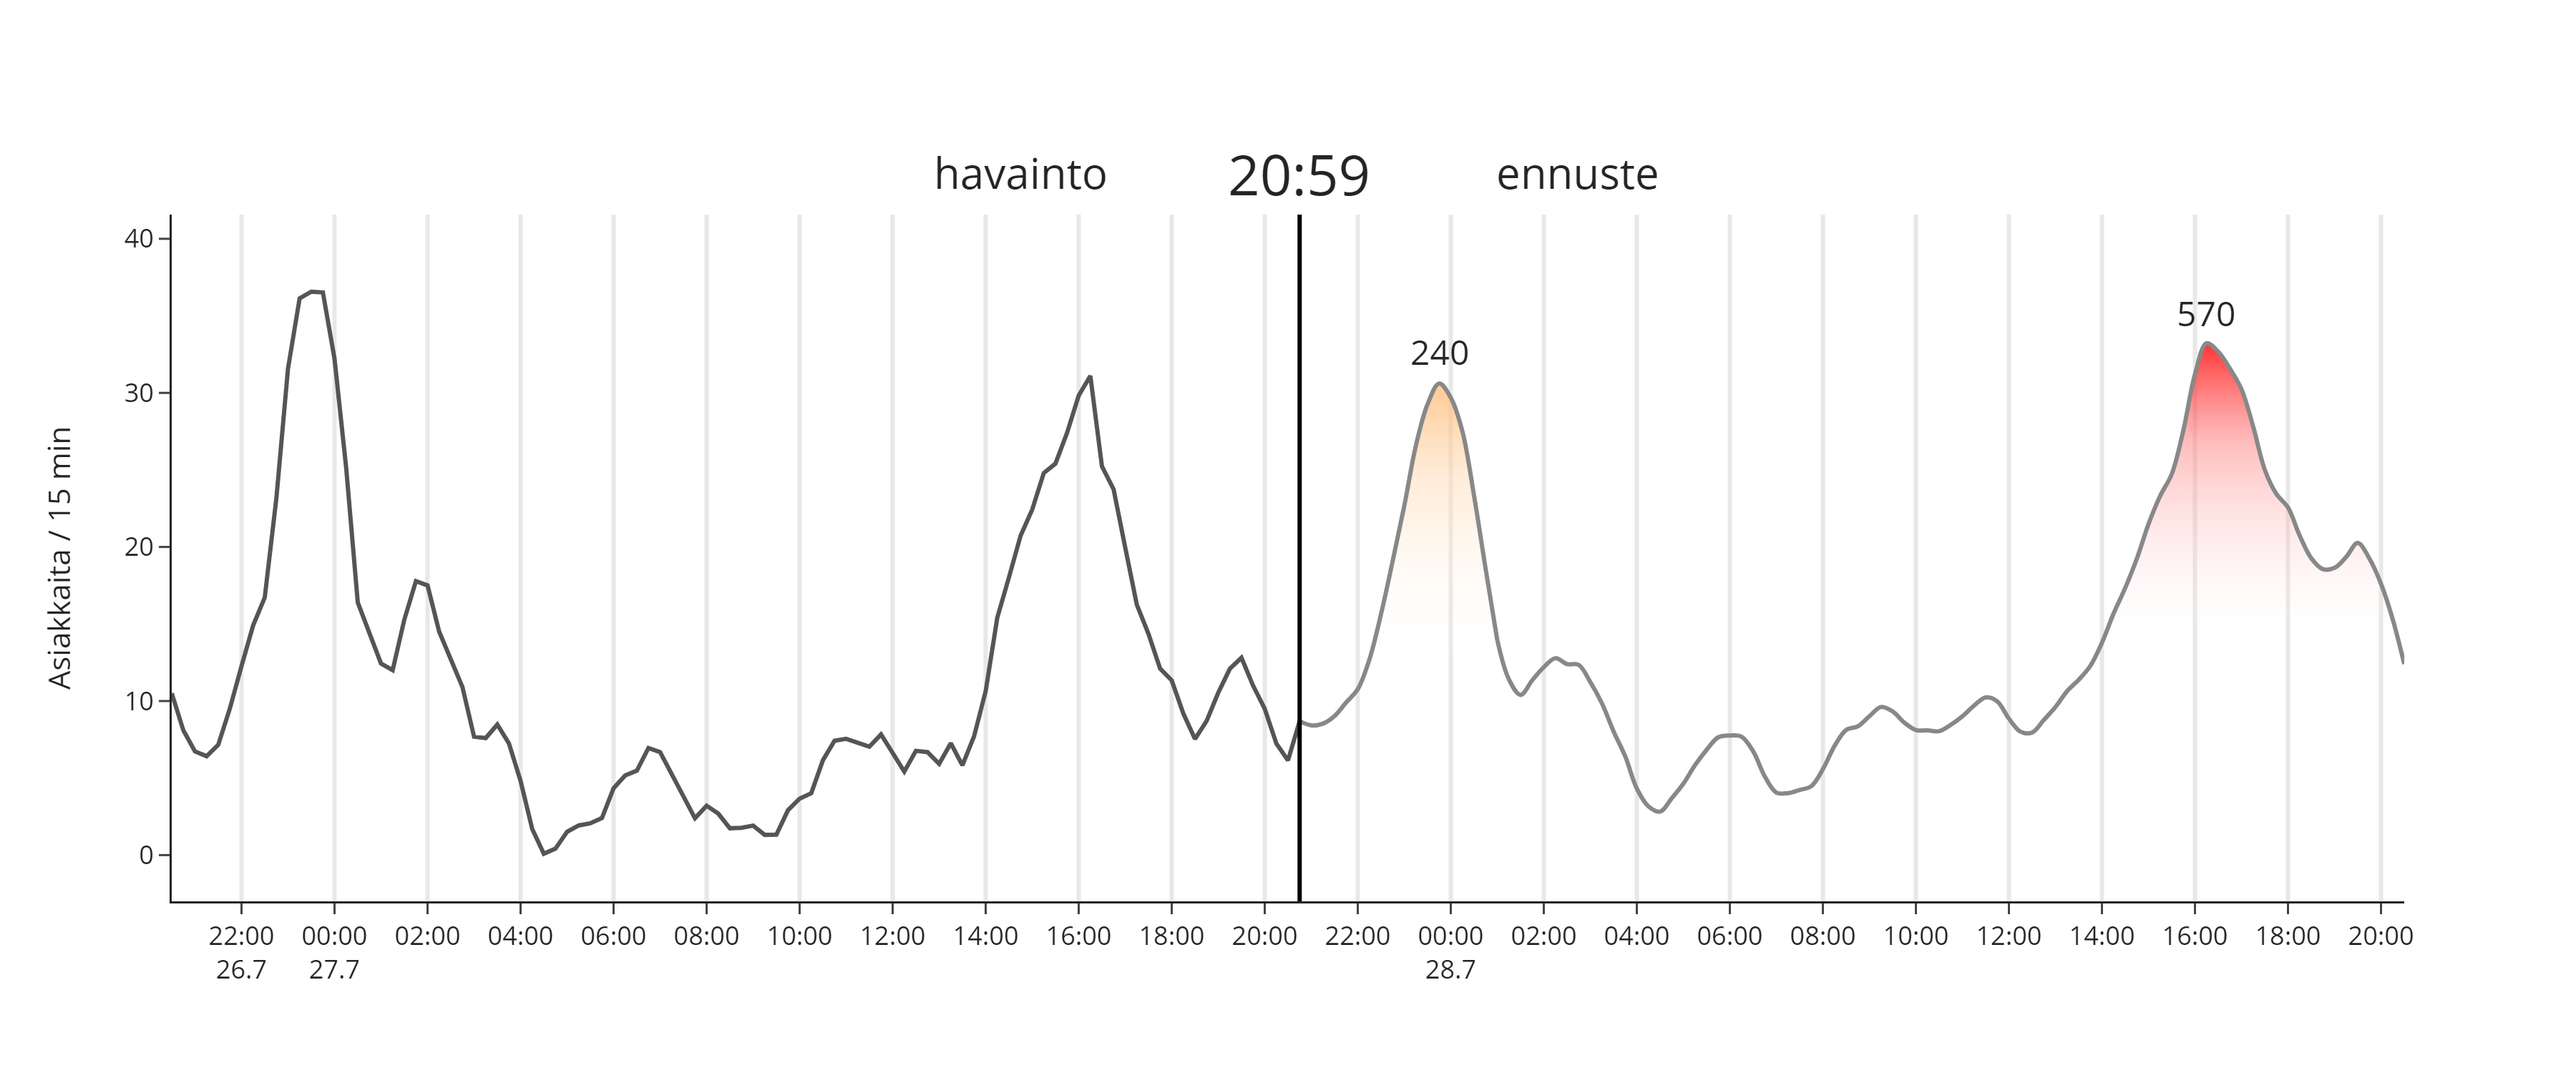
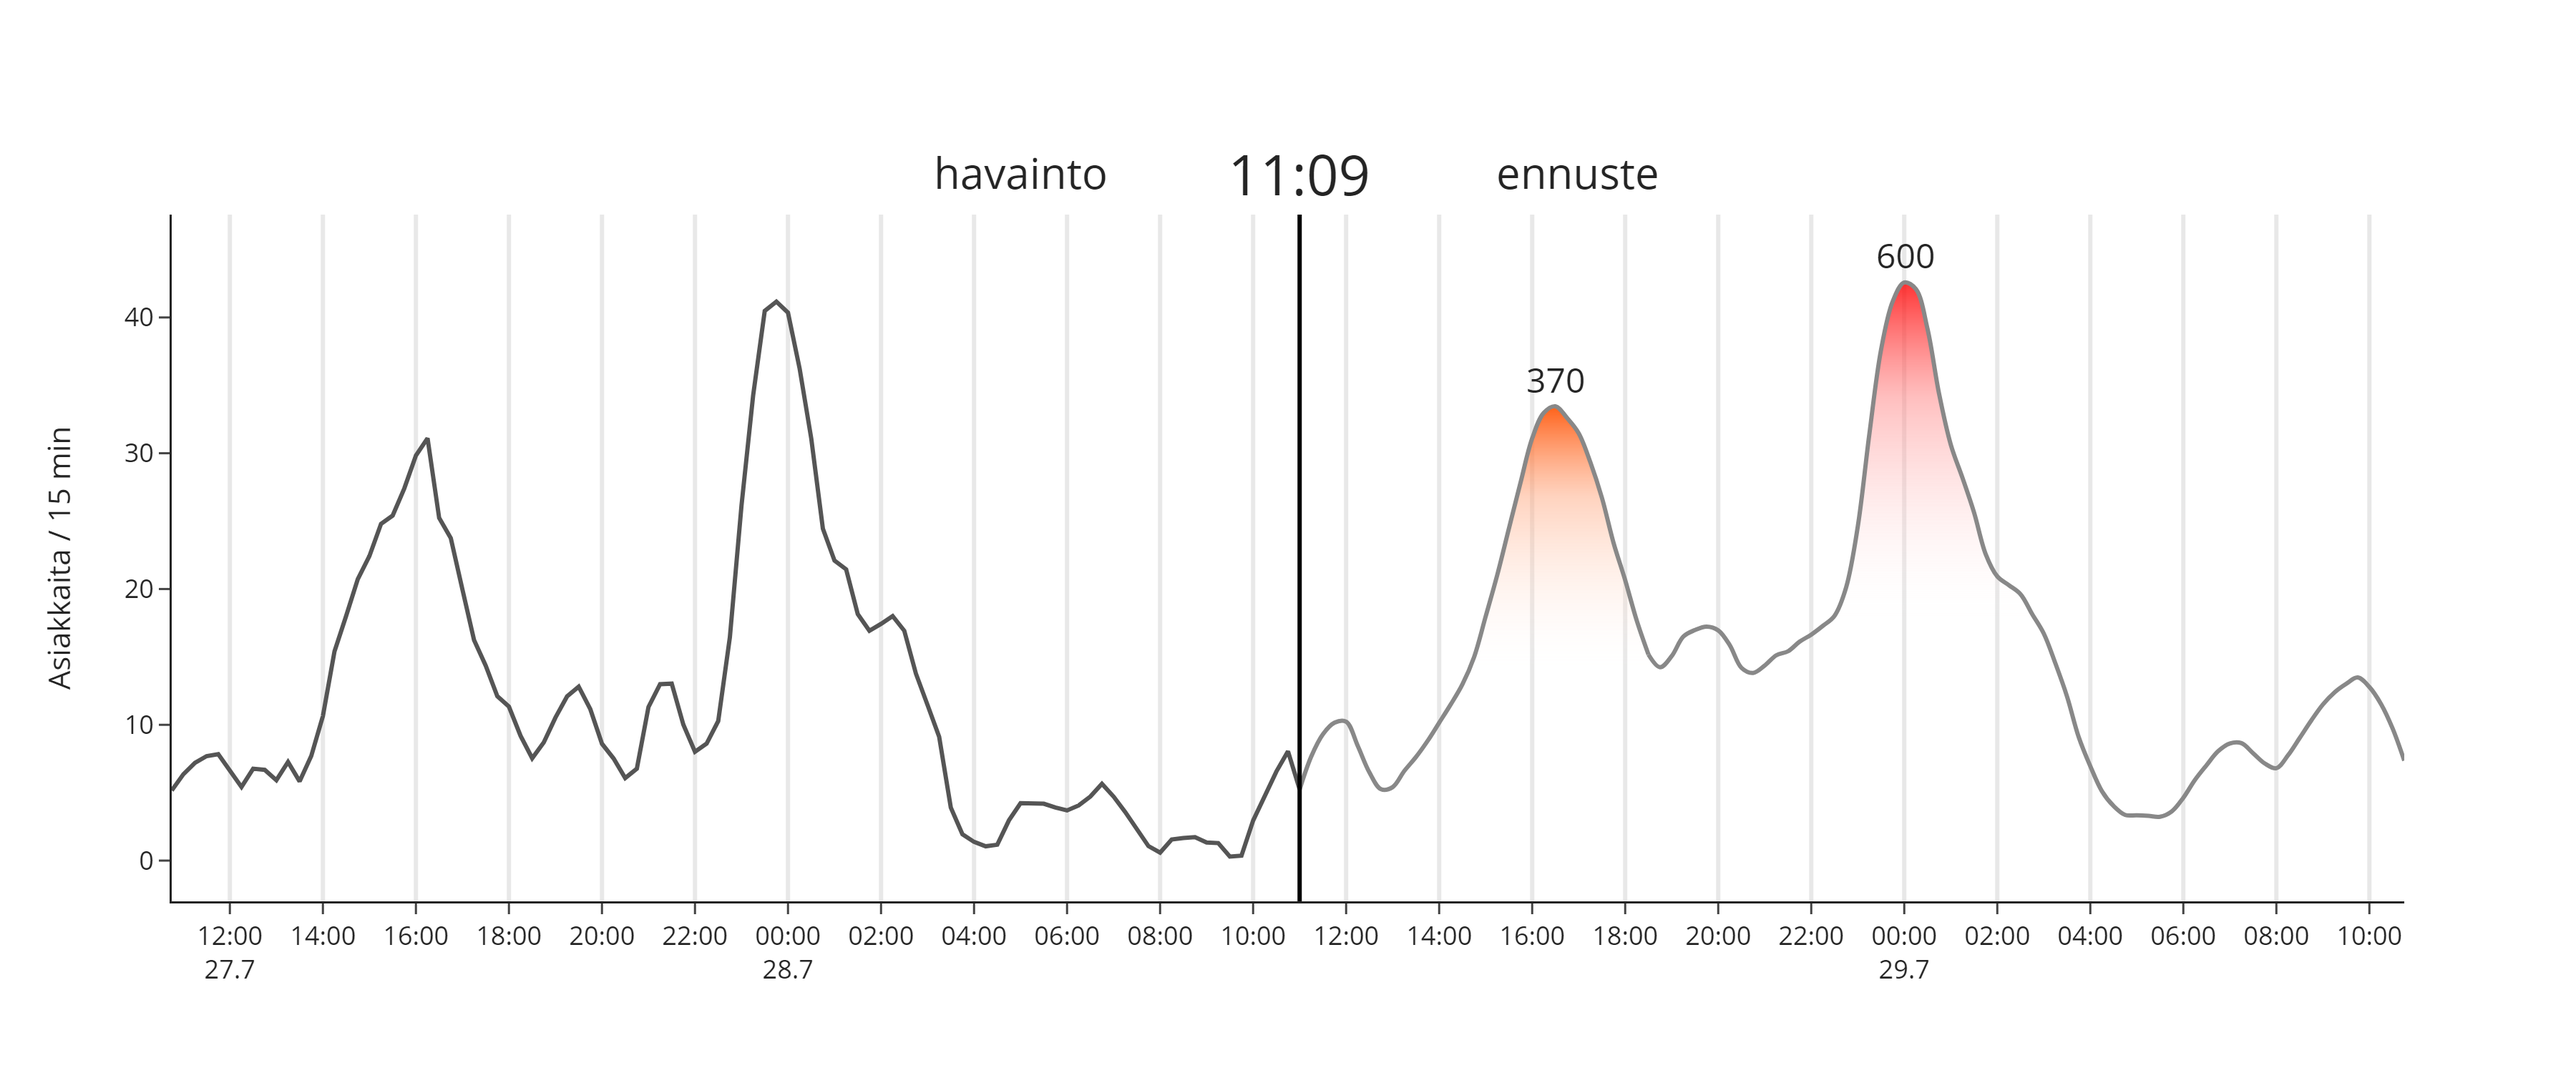
Infobox ja tuplapäiväykset

diff --git a/taxipoint_st.py b/taxipoint_st.py
@@ -37,19 +37,21 @@ st.markdown(
 container = st.empty()
 container2 = st.empty()
 
-###
-image = Image.open("plot.png")
-scale = 0.2
-w = int(3500 * scale)
-h = int(1500 * scale)
-image = image.resize((w,h))
-loading_image = image.convert("RGBA")
-data = image.getdata()
-new_data = []
-for item in data:
-    new_data.append((item[0], item[1], item[2], 128))
-loading_image.putdata(new_data)
-###
+def get_loading_image():
+    image = Image.open("plot.png")
+    scale = 0.2
+    w = int(3500 * scale)
+    h = int(1500 * scale)
+    image = image.resize((w,h))
+    loading_image = image.convert("RGBA")
+    data = image.getdata()
+    new_data = []
+    for item in data:
+        new_data.append((item[0], item[1], item[2], 128))
+    loading_image.putdata(new_data)
+    return loading_image
+
+loading_image = get_loading_image()
 
 with st.spinner("Loading..."):
     container2.empty()
@@ -70,3 +72,14 @@ with st.spinner("Loading..."):
 with container2:
     st.image("plot.png", use_column_width ="always")
 
+
+st.write("---")
+
+st.markdown("""
+Tämä palvelu tarjoaa ennusteen Helsinki-Vantaan lentokentän taksiaseman kysynnästä. Ennusteet perustuvat Taxipointin historialliseen dataan. Palvelu on tarkoitettu antamaan yleiskuvaa taksikysynnän vaihteluista eri ajankohtina.
+
+**Huomio:** Tämä projekti on harrasteprojekti, eikä virallinen palvelu. Ennusteet eivät ole taattuja. Suosittelen käyttäjiä käyttämään palvelua vain suuntaa-antavana tietona.
+
+
+\- Pyry Pohjanoksa
+""")

diff --git a/taxipoint.py b/taxipoint.py
@@ -117,18 +117,14 @@ def select_color(value):
         return None
 
 def round_to_next_series_hour(datetime_value):
-    # Extract the hour from the datetime
     hour = datetime_value.hour
     
-    # Determine the next value in the series [0, 3, 6, 9, 12]
     next_hour = ((hour // 3) + 1) * 3
     
-    # If next_hour is 15 or more, roll over to the next day at 0 hour
     if next_hour >= 24:
         next_hour = 0
         datetime_value += pd.Timedelta(days=1)
     
-    # Create a new datetime value with the next hour in series
     rounded_datetime = datetime_value.replace(hour=next_hour)
     
     return rounded_datetime
@@ -257,7 +253,8 @@ def print_forecast(preds, rides_df_, t, sql_engine):
             ticktext[i] = ticktext[i] + f"<br>{dt_.day}.{dt_.month}"
 
     # first date
-    ticktext[0] = ticktext[0] + f"<br>{tickvals[0].day}.{tickvals[0].month}"
+    if len(ticktext[0]) <= 5:
+        ticktext[0] = ticktext[0] + f"<br>{tickvals[0].day}.{tickvals[0].month}"
 
     fig.update_layout(
                     # width=1800, 
